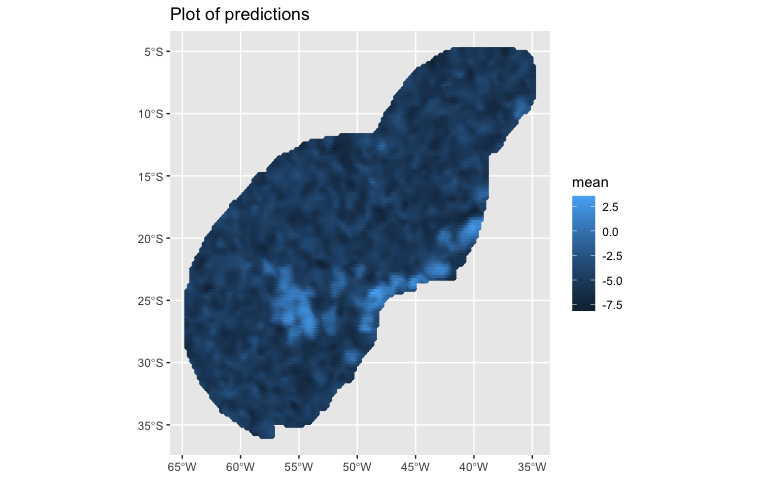
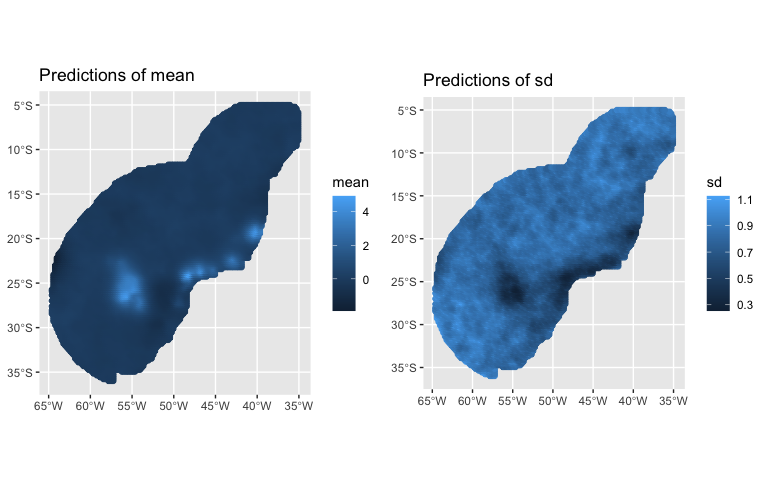
Update README

diff --git a/README.md b/README.md
@@ -42,28 +42,32 @@ install.packages('PointedSDMs')
 construction of ISDMs as well and perform model cross-validation. The
 core functions of the package are:
 
-| Function name  | Function description                                                                                          |
-|----------------|---------------------------------------------------------------------------------------------------------------|
-| `intModel()`   | Initialize and specify the components used in the integrated model.                                           |
-| `blockedCV()`  | Perform spatial blocked cross-validation.                                                                     |
-| `fitISDM()`    | Estimate and preform inference on the integrated model.                                                       |
-| `datasetOut()` | Perform dataset-out cross-validation, which calculates the impact individual datasets have on the full model. |
+| Function name    | Function description                                                                                          |
+|------------------|---------------------------------------------------------------------------------------------------------------|
+| `startISDM()`    | Initialize and specify the components used in the integrated model.                                           |
+| `startSpecies()` | Initialize and specify the components used in the multi-species integrated model.                             |
+| `blockedCV()`    | Perform spatial blocked cross-validation.                                                                     |
+| `fitISDM()`      | Estimate and preform inference on the integrated model.                                                       |
+| `datasetOut()`   | Perform dataset-out cross-validation, which calculates the impact individual datasets have on the full model. |
 
 The function `intModel()` produces an [R6](https://github.com/r-lib/R6)
 object, and as a result there are various *slot functions* available to
 further specify the components of the model. These *slot functions*
 include:
 
-| `intModel()` slot function   | Function description                                                                                                                                            |
-|------------------------------|-----------------------------------------------------------------------------------------------------------------------------------------------------------------|
-| `` `.$plot()` ``             | Used to create a plot of the available data. The output of this function is an object of class [`gg`](https://github.com/tidyverse/ggplot2).                    |
-| `` `.$addBias()` ``          | Add an additional spatial field to a dataset to account for sampling bias in unstructured datasets.                                                             |
-| `` `.$updateFormula()` ``    | Used to update a formula for a process. The idea is to start specify the full model with `intModel()`, and then thin components per dataset with this function. |
-| `` `.$updateComponents()` `` | Change or add new components used by [inlabru](https://besjournals.onlinelibrary.wiley.com/doi/abs/10.1111/2041-210X.13168) in the integrated model.            |
-| `` `.$priorsFixed()` ``      | Change the specification of the prior distribution for the fixed effects in the model.                                                                          |
-| `` `.$specifySpatial()` ``   | Specify the spatial field in the model using penalizing complexity (PC) priors.                                                                                 |
-| `` `.$spatialBlock()` ``     | Used to specify how the points are spatially blocked. Spatial cross-validation is subsequently performed using `blockedCV()`.                                   |
-| `` `.$addSamplers()` ``      | Function to add an integration domain for the PO datasets.                                                                                                      |
+| `intModel()` slot function   | Function description                                                                                                                                             |
+|------------------------------|------------------------------------------------------------------------------------------------------------------------------------------------------------------|
+| `` `.$help()` ``             | Show documentation for each of the slot functions.                                                                                                               |
+| `` `.$plot()` ``             | Used to create a plot of the available data. The output of this function is an object of class [`gg`](https://github.com/tidyverse/ggplot2).                     |
+| `` `.$addBias()` ``          | Add an additional spatial field to a dataset to account for sampling bias in unstructured datasets.                                                              |
+| `` `.$updateFormula()` ``    | Used to update a formula for a process. The idea is to start specify the full model with `startISDM()`, and then thin components per dataset with this function. |
+| `` `.$updateComponents()` `` | Change or add new components used by [inlabru](https://besjournals.onlinelibrary.wiley.com/doi/abs/10.1111/2041-210X.13168) in the integrated model.             |
+| `` `.$priorsFixed()` ``      | Change the specification of the prior distribution for the fixed effects in the model.                                                                           |
+| `` `.$specifySpatial()` ``   | Specify the spatial field in the model using penalizing complexity (PC) priors.                                                                                  |
+| `` `.$spatialBlock()` ``     | Used to specify how the points are spatially blocked. Spatial cross-validation is subsequently performed using `blockedCV()`.                                    |
+| `` `.$addSamplers()` ``      | Function to add an integration domain for the PO datasets.                                                                                                       |
+| `` `.$specifyRandom()` ``    | Specify the priors for the random effects in the model.                                                                                                          |
+| `` `.$changeLink()` ``       | Change the link function of a process.                                                                                                                           |
 
 ## Example
 
@@ -90,20 +94,20 @@ projection <- "+proj=longlat +ellps=WGS84"
 
 species <- SolitaryTinamou$datasets
 
-NPP <- scale(terra::rast(system.file('extdata/SolitaryTinamouCovariates.tif', 
-                                      package = "PointedSDMs"))$NPP)
+covariates <- terra::rast(system.file('extdata/SolitaryTinamouCovariates.tif', 
+                                      package = "PointedSDMs"))
 
 mesh <- SolitaryTinamou$mesh
 ```
 
-Setting up the model is done easily with `intModel()`, where we specify
+Setting up the model is done easily with `startISDM()`, where we specify
 the required components of the model:
 
 ``` r
 
 #Specify model -- here we run a model with one spatial covariate and a shared spatial field
 
-model <- intModel(species, spatialCovariates = NPP, Coordinates = c('X', 'Y'),
+model <- startISDM(species, spatialCovariates = covariates,
                  Projection = projection, Mesh = mesh, responsePA = 'Present')
 ```
 
@@ -120,54 +124,88 @@ model$plot(Boundary = FALSE) +
 
 <img src="man/figures/README-plot-1.png" width="100%" />
 
+To improve stability, we specify priors for the intercepts of the model
+using `` `.$priorsFixed()` ``
+
+``` r
+
+model$priorsFixed(Effect = 'Intercept',
+                  mean.linear = 0, 
+                  prec.linear = 0.11)
+```
+
+And *PC* priors for the spatial field using `` `.$specifySpatial()` ``:
+
+``` r
+
+model$specifySpatial(sharedSpatial = TRUE,
+                     prior.range = c(50, 0.1),
+                     prior.sigma = c(0.1, 0.1))
+```
+
 We can then estimate the parameters in the model using the `fitISDM()`
 function:
 
 ``` r
 
-#Run the integrated model
-
-modelRun <- fitISDM(model, options = list(control.inla = list(int.strategy = 'eb'), 
+modelRun <- fitISDM(model, options = list(control.inla = list(int.strategy = 'eb',
+                                                              diagonal = 0.1), 
                                           safe = TRUE))
-#> 
-#>  *** inla.core.safe:  rerun to try to solve negative eigenvalue(s) in the Hessian
 summary(modelRun)
-#> Summary of 'bruSDM' object:
-#> 
-#> inlabru version: 2.8.0
-#> INLA version: 23.06.29
-#> 
-#> Types of data modelled:
-#>                                     
-#> eBird                   Present only
-#> Parks                Present absence
-#> Gbif                    Present only
+#> inlabru version: 2.10.1
+#> INLA version: 24.03.20
+#> Components:
+#> eBird_spatial: main = spde(geometry), group = exchangeable(1L), replicate = iid(1L)
+#> Parks_spatial(=eBird_spatial): main = unknown(geometry), group = exchangeable(1L), replicate = iid(1L)
+#> Gbif_spatial(=eBird_spatial): main = unknown(geometry), group = exchangeable(1L), replicate = iid(1L)
+#> Forest: main = linear(Forest), group = exchangeable(1L), replicate = iid(1L)
+#> NPP: main = linear(NPP), group = exchangeable(1L), replicate = iid(1L)
+#> Altitude: main = linear(Altitude), group = exchangeable(1L), replicate = iid(1L)
+#> eBird_intercept: main = linear(1), group = exchangeable(1L), replicate = iid(1L)
+#> Parks_intercept: main = linear(1), group = exchangeable(1L), replicate = iid(1L)
+#> Gbif_intercept: main = linear(1), group = exchangeable(1L), replicate = iid(1L)
+#> Likelihoods:
+#>   Family: 'cp'
+#>     Data class: 'sf', 'data.frame'
+#>     Predictor: geometry ~ .
+#>   Family: 'binomial'
+#>     Data class: 'sf', 'data.frame'
+#>     Predictor: Present ~ .
+#>   Family: 'cp'
+#>     Data class: 'sf', 'data.frame'
+#>     Predictor: geometry ~ .
 #> Time used:
-#>     Pre = 0.633, Running = 25.4, Post = 0.0346, Total = 26.1 
+#>     Pre = 0.932, Running = 11.8, Post = 0.19, Total = 13 
 #> Fixed effects:
 #>                   mean    sd 0.025quant 0.5quant 0.975quant   mode kld
-#> NPP              0.004 0.008     -0.011    0.004      0.019  0.004   0
-#> eBird_intercept  0.004 0.006     -0.007    0.004      0.015  0.004   0
-#> Parks_intercept -0.681 0.342     -1.351   -0.681     -0.011 -0.681   0
-#> Gbif_intercept  -0.020 0.012     -0.044   -0.020      0.004 -0.020   0
+#> Forest           0.027 0.004      0.019    0.027      0.034  0.027   0
+#> NPP              0.000 0.000      0.000    0.000      0.000  0.000   0
+#> Altitude        -0.001 0.000     -0.001   -0.001      0.000 -0.001   0
+#> eBird_intercept -6.853 0.283     -7.409   -6.853     -6.298 -6.853   0
+#> Parks_intercept -6.085 0.401     -6.871   -6.085     -5.299 -6.085   0
+#> Gbif_intercept  -7.411 0.317     -8.033   -7.411     -6.789 -7.411   0
 #> 
 #> Random effects:
 #>   Name     Model
-#>     shared_spatial SPDE2 model
+#>     eBird_spatial SPDE2 model
+#>    Parks_spatial Copy
+#>    Gbif_spatial Copy
 #> 
 #> Model hyperparameters:
-#>                            mean    sd 0.025quant 0.5quant 0.975quant  mode
-#> Theta1 for shared_spatial -4.70 0.000      -4.70    -4.70      -4.70 -4.70
-#> Theta2 for shared_spatial -2.42 0.001      -2.42    -2.42      -2.42 -2.42
+#>                          mean    sd 0.025quant 0.5quant 0.975quant  mode
+#> Range for eBird_spatial 2.920 0.280      2.430    2.900      3.529 2.845
+#> Stdev for eBird_spatial 0.924 0.058      0.817    0.921      1.044 0.915
+#> Beta for Parks_spatial  0.021 0.061     -0.099    0.022      0.142 0.022
+#> Beta for Gbif_spatial   0.437 0.054      0.330    0.437      0.544 0.436
 #> 
-#> Deviance Information Criterion (DIC) ...............: 28478.88
+#> Deviance Information Criterion (DIC) ...............: -650.77
 #> Deviance Information Criterion (DIC, saturated) ....: NA
-#> Effective number of parameters .....................: 13077.42
+#> Effective number of parameters .....................: -1473.12
 #> 
-#> Watanabe-Akaike information criterion (WAIC) ...: 91246.11
-#> Effective number of parameters .................: 43157.68
+#> Watanabe-Akaike information criterion (WAIC) ...: 1581.04
+#> Effective number of parameters .................: 331.72
 #> 
-#> Marginal log-Likelihood:  -3289.18 
+#> Marginal log-Likelihood:  -1607.04 
 #>  is computed 
 #> Posterior summaries for the linear predictor and the fitted values are computed
 #> (Posterior marginals needs also 'control.compute=list(return.marginals.predictor=TRUE)')
@@ -182,7 +220,7 @@ predictions <- predict(modelRun, mesh = mesh,
                        spatial = TRUE,
                        fun = 'linear')
 
-plot(predictions)
+plot(predictions, variable = c('mean', 'sd'))
 ```
 
 <img src="man/figures/README-predict_and_plot-1.png" width="100%" />
